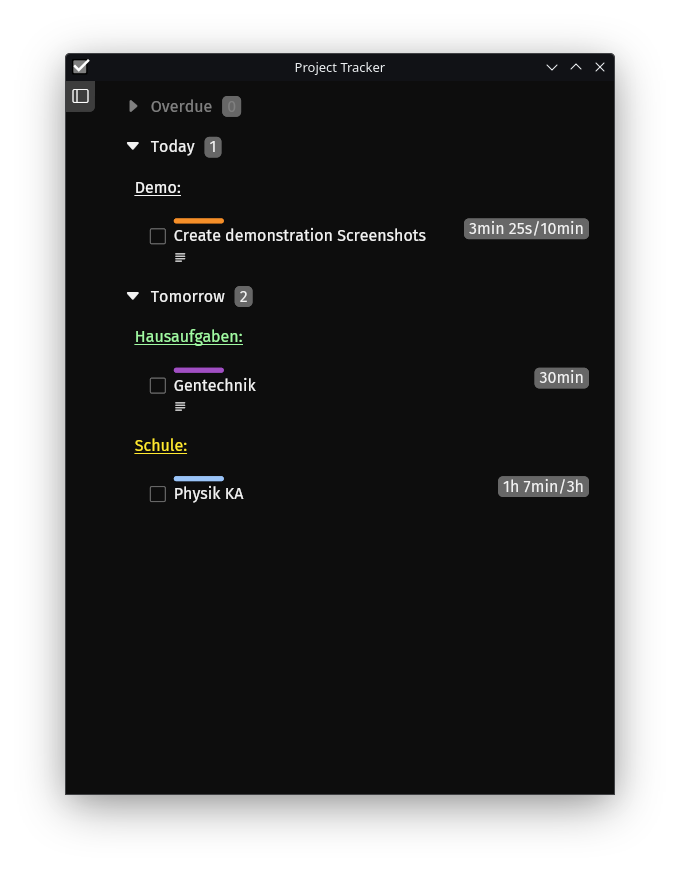
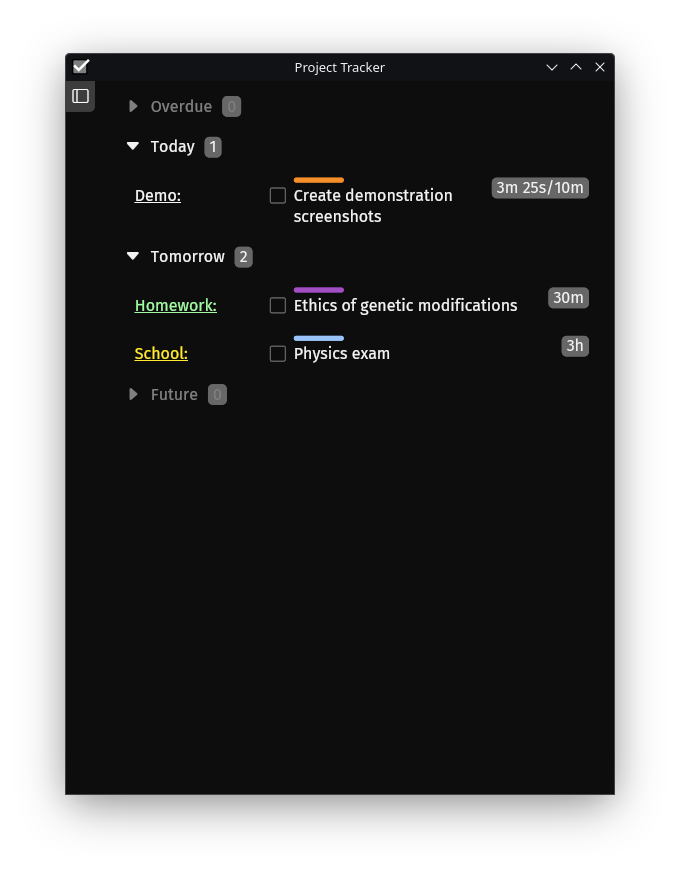
improved overview page ui clutter --> better visibility

diff --git a/src/pages/overview_page.rs b/src/pages/overview_page.rs
@@ -2,7 +2,7 @@ use std::{collections::{BTreeMap, HashMap}, time::SystemTime};
 use chrono::{DateTime, Days, NaiveDate, Utc};
 use iced::{widget::{column, row, container, container::Id, text, Column}, Element, Length::Fill, Padding};
 use iced_aw::date_picker::Date;
-use crate::{components::{days_left_widget, open_project_button, overview_time_section_button, task_widget, vertical_scrollable}, core::{IcedColorConversion, SerializableDateConversion, TASK_TAG_QUAD_HEIGHT}, pages::ContentPageMessage, project_tracker::Message, styles::{PADDING_AMOUNT, SMALL_SPACING_AMOUNT, SPACING_AMOUNT, TINY_SPACING_AMOUNT}, OptionalPreference, Preferences, ProjectTrackerApp};
+use crate::{components::{open_project_button, overview_time_section_button, task_widget, vertical_scrollable}, core::{IcedColorConversion, SerializableDateConversion, TASK_TAG_QUAD_HEIGHT}, pages::ContentPageMessage, project_tracker::Message, styles::{PADDING_AMOUNT, SMALL_SPACING_AMOUNT, SPACING_AMOUNT, TINY_SPACING_AMOUNT}, OptionalPreference, Preferences, ProjectTrackerApp};
 use crate::core::SortModeUI;
 use project_tracker_core::{Database, ProjectId, SerializableDate, SortMode, Task, TaskId};
 
@@ -246,14 +246,8 @@ impl OverviewPage {
 			} else {
 				Some(
 					Column::with_children(tasks.iter()
-						.map(|(date, tasks)| {
-							column![
-								days_left_widget(*date, false),
-								Self::view_tasks(tasks, app),
-							]
-							.spacing(SPACING_AMOUNT)
-							.padding(Padding::default().left(PADDING_AMOUNT))
-							.into()
+						.map(|(_date, tasks)| {
+							Self::view_tasks(tasks, app, true)
 						}))
 						.spacing(SPACING_AMOUNT)
 				)
@@ -276,13 +270,13 @@ impl OverviewPage {
 			.push_maybe(if tasks.is_empty() || collapsed {
 				None
 			} else {
-				Some(Self::view_tasks(tasks, app))
+				Some(Self::view_tasks(tasks, app, false))
 			})
 			.spacing(SPACING_AMOUNT)
 			.into()
 	}
 
-	fn view_tasks<'a>(tasks: &'a HashMap<ProjectId, Vec<TaskId>>, app: &'a ProjectTrackerApp) -> Element<'a, Message> {
+	fn view_tasks<'a>(tasks: &'a HashMap<ProjectId, Vec<TaskId>>, app: &'a ProjectTrackerApp, show_due_date: bool) -> Element<'a, Message> {
 		Column::with_children(
 			tasks.iter()
 				.map(|(project_id, tasks)| {
@@ -303,7 +297,7 @@ impl OverviewPage {
 											true,
 											false,
 											false,
-											false
+											show_due_date
 										)
 									}
 									else {
